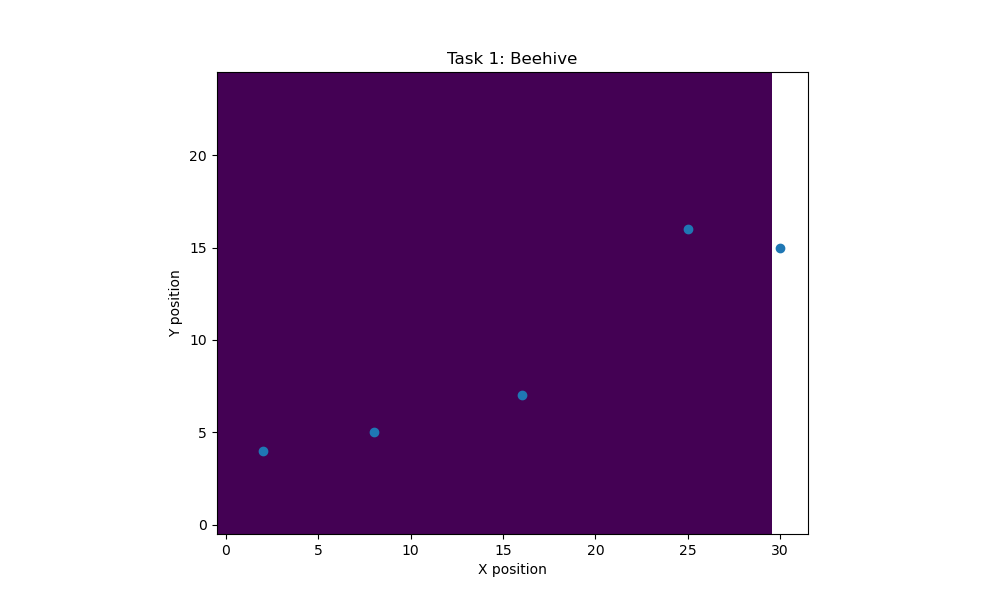
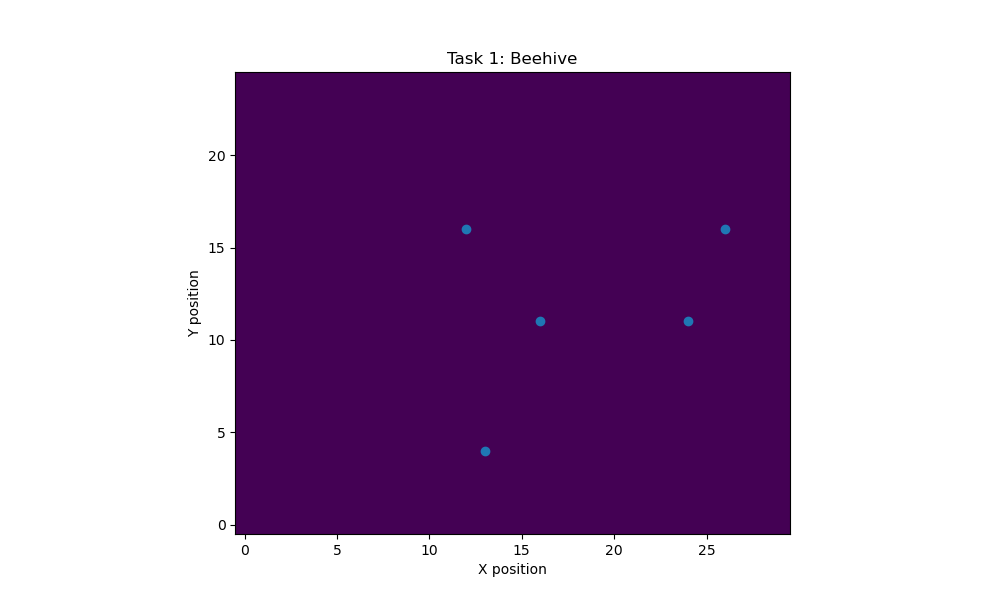
final done

diff --git a/PracTest3/buzzness.py b/PracTest3/buzzness.py
@@ -8,7 +8,7 @@
 #
 import random
 
-class Bee(): # Provdiqng state and behaviour for worker bee in the simulation
+class Bee(): # Providing state and behaviour for worker bee in the simulation
     def __init__(self, ID, pos):
         """
         Initialise Bee object
@@ -22,17 +22,43 @@ class Bee(): # Provdiqng state and behaviour for worker bee in the simulation
         self.age = 0
         self.inhive = True
 
-    def step_change(self, subgrid=None):
+    def step_change(self, subgrid=None, maxX=None, maxY=None):
         """
         Update Bee object on each timestep
         subgrid: gives view of surroundings for choosing where to move (not used for now)
+        Made changes so that bees don't move outside the boundary of the plots. 
         """
+        # maxX and maxY are the maximum coordinate boundaries of the plot. 
         validmoves = [(0,0), (0,1), (1,1), (1,0), (1,-1), (0,-1), (-1,-1), (-1,0), (-1,1)]  ## (d) In the Bee, update the valid moves to inlcude all 9 Moore neighbouhoods. 
-        move = random.choice(validmoves)       # randomly choose a move
-        print(self.pos, move)
-        # need to update the position based on the move
-        self.pos = (self.pos[0] + move[0], self.pos[1] + move[1]) # update the position of the bee.
+
+        # Try to find a valid move that keeps the bee within boundaries
+        valid_step = False #default assumption of hte new step is false. 
+        attempts = 0
+        max_attempts = 10  # In order to prevent infinite loop
         
+        while not valid_step and attempts < max_attempts:
+            move = random.choice(validmoves)  # randomly choose a move out of the validmoves array. 
+            newX = self.pos[0] + move[0]
+            newY = self.pos[1] + move[1]
+            
+            if maxX is None or maxY is None: # Check if new position is within boundaries
+                valid_step = True
+            else:
+                if 0 <= newX < maxX and 0 <= newY < maxY: #Ensure the new position is in between the origin and the max coordinates of the pot. 
+                    valid_step = True
+            attempts += 1
+        
+        if valid_step: 
+            print(f"{self.ID}: {self.pos} -> {(newX, newY)}")
+            self.pos = (newX, newY)  # update the position of the bee
+        else:
+            # If no valid_steps found after max attempts, stay in place
+            print(f"{self.ID}: Staying at {self.pos} (no valid moves)")
+
+        # Remove the duplicate position update that was causing bugs
+        # print(self.pos, move)
+        # self.pos = (self.pos[0] + move[0], self.pos[1] + move[1]) <- This line was causing bees to move outside boundaries
+    
     def get_pos(self):
         return self.pos
     

diff --git a/PracTest3/task2.py b/PracTest3/task2.py
@@ -12,17 +12,18 @@ import random
 import numpy as np
 from buzzness import Bee
 
+
 simlength = 1
 hiveX = 30
 hiveY = 25
 hive = np.zeros((hiveX,hiveY))
 ready_for_honey = 10
-# generate 5 bees. 
-blist = [Bee(f"b{i+1}", (np.random.randint(0, hiveX), np.random.randint(0, hiveY))) for i in range(5)] # for loop for generating 5 bees 
+
+# Generate 5 bees with positions guaranteed to be within boundaries
+blist = [Bee(f"b{i+1}", (np.random.randint(0, hiveX), np.random.randint(0, hiveY))) for i in range(5)]
 
 def plot_hive(hive, blist, ax):
     ## (b) readiness for honey
-
     if ready_for_honey == 10:
         hive[:, :] = 10
     else:
@@ -44,8 +45,10 @@ def plot_hive(hive, blist, ax):
 
 # Run the simulation. 
 for t in range(simlength):
+    # Pass boundaries to step_change to prevent bees from moving outside the plot
     for b in blist:
-        b.step_change()
+        b.step_change(maxX=hiveX, maxY=hiveY)
+        
     fig, axes = plt.subplots(1, 2, figsize=(15,6)) # 1 row with 2 columns sup fig
     
     ## (e) Plot a duplicate of the plot in the 2nd column and add a supertitle. 
@@ -73,8 +76,3 @@ fig.savefig('task2.png')
 # 1-5 is honey level
 
 #plt.ion()
-
-## (c) Update the plot to 
-
-
-

diff --git a/PracTest3/task4.py b/PracTest3/task4.py
@@ -12,7 +12,6 @@ import random
 import numpy as np
 from buzzness import Bee
 
-
 simlength = 5
 hiveX = 30
 hiveY = 25
@@ -83,14 +82,14 @@ def plot_world(ax):
     #Plot the world bees
     xvalues = [b.get_pos()[0] for b in world_bees]
     yvalues = [b.get_pos()[1] for b in world_bees]
-    ax.scatter(xvalues, yvalues, c='black', marker='o', s=80)
+    ax.scatter(xvalues, yvalues, c='yellow', marker='o', s=80)
 
 # Run the simulation. 
 for t in range(simlength):
     for b in blist:
-        b.step_change()
+        b.step_change(maxX=hiveX, maxY=hiveY) # pass the boundaries of the hive to the step_change function.
     for b in world_bees:
-        b.step_change()
+        b.step_change(maxX=propertyX, maxY=propertyY) # pass the boundaries of the world. 
     fig, axes = plt.subplots(1, 2, figsize=(15,6)) # 1 row with 2 columns sup fig
     
     ## (e) Plot a duplicate of the plot in the 2nd column and add a supertitle. 
@@ -111,10 +110,3 @@ for t in range(simlength):
     plt.pause(1)
     simlength = simlength - 1
 fig.savefig('task4.png')
-
-#plt.ion()
-
-## (c) Update the plot to 
-
-
-

diff --git a/PracTest3/task3.py b/PracTest3/task3.py
@@ -12,8 +12,6 @@ import random
 import numpy as np
 from buzzness import Bee
 
-
-
 simlength = 1
 hiveX = 30
 hiveY = 25
@@ -85,7 +83,7 @@ def plot_world(ax):
 # Run the simulation. 
 for t in range(simlength):
     for b in blist:
-        b.step_change()
+        b.step_change(maxX=hiveX, maxY=hiveY)
     fig, axes = plt.subplots(1, 2, figsize=(15,6)) # 1 row with 2 columns sup fig
     
     ## (e) Plot a duplicate of the plot in the 2nd column and add a supertitle. 

diff --git a/PracTest3/tempCodeRunnerFile.py b/PracTest3/tempCodeRunnerFile.py
@@ -1,0 +1,1 @@
+"
